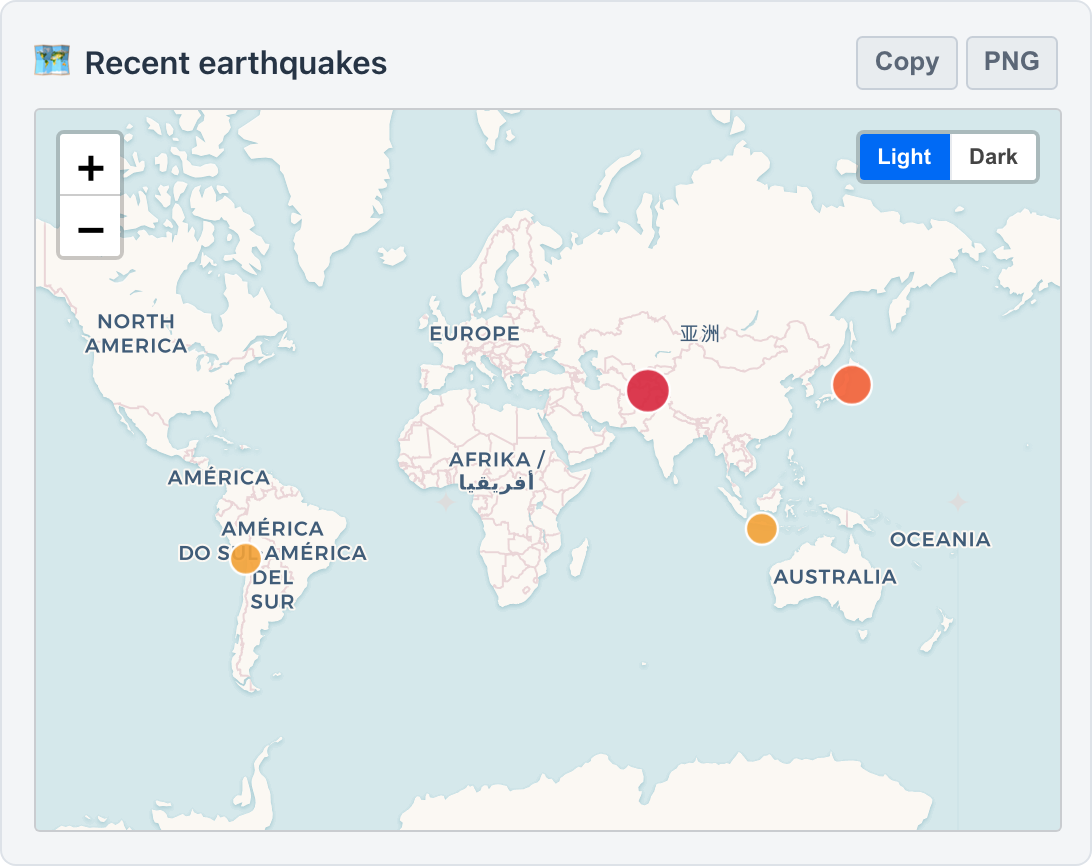
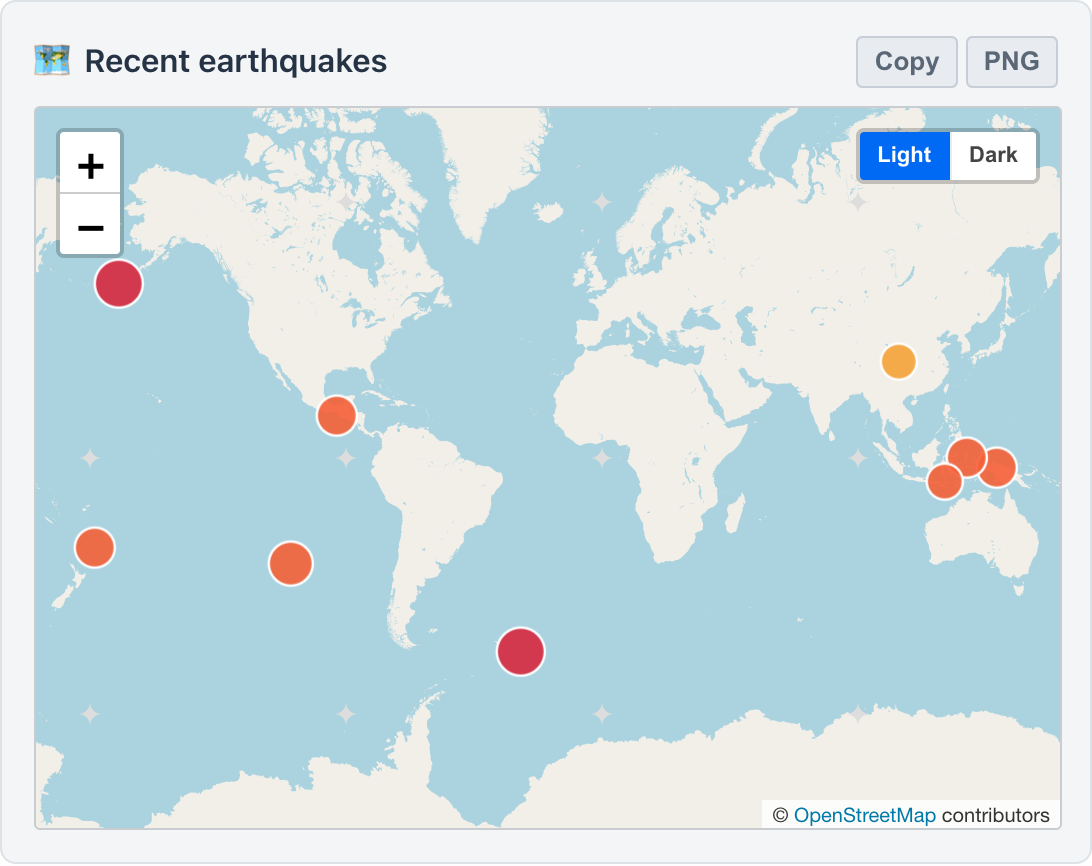
fix(chat): swap carto for keyless osm tiles, restore disabled selector placeholders

diff --git a/src/main/frontend/playground/chat-markdown-enhance.js b/src/main/frontend/playground/chat-markdown-enhance.js
@@ -934,13 +934,16 @@ function weightColor(w) {
     return w >= 6 ? '#d7263d' : w >= 5.5 ? '#f46036' : w >= 5 ? '#f4a236' : '#f4d03f';
 }
 
-const MAP_BASEMAPS = {
-    light: 'https://{s}.basemaps.cartocdn.com/rastertiles/voyager/{z}/{x}/{y}{r}.png',
-    dark: 'https://{s}.basemaps.cartocdn.com/dark_all/{z}/{x}/{y}{r}.png',
-};
+const MAP_TILE_URL = 'https://tile.openstreetmap.org/{z}/{x}/{y}.png';
+const MAP_ATTRIBUTION = '&copy; <a href="https://www.openstreetmap.org/copyright">OpenStreetMap</a> contributors';
+const MAP_DARK_FILTER = 'invert(1) hue-rotate(180deg) brightness(0.86) contrast(0.85) saturate(0.2)';
 
-function basemapLayer(style) {
-    return L.tileLayer(MAP_BASEMAPS[style], { maxZoom: 8, subdomains: 'abcd', crossOrigin: true });
+function basemapLayer() {
+    return L.tileLayer(MAP_TILE_URL, { maxZoom: 19, detectRetina: true, attribution: MAP_ATTRIBUTION, crossOrigin: true });
+}
+
+function applyBasemapStyle(map, box) {
+    map.getPane('tilePane').style.filter = box.dataset.style === 'dark' ? MAP_DARK_FILTER : 'none';
 }
 
 function exportLeafletMap(map, box) {
@@ -948,15 +951,18 @@ function exportLeafletMap(map, box) {
     const out = document.createElement('canvas');
     out.width = size.x;
     out.height = size.y;
+    const dark = box.dataset.style === 'dark';
     const ctx = out.getContext('2d');
-    ctx.fillStyle = box.dataset.style === 'dark' ? '#0b1322' : '#eaeef2';
+    ctx.fillStyle = dark ? '#0b1322' : '#eaeef2';
     ctx.fillRect(0, 0, size.x, size.y);
     const base = box.getBoundingClientRect();
+    ctx.filter = dark ? MAP_DARK_FILTER : 'none';
     box.querySelectorAll('img.leaflet-tile').forEach((img) => {
         if (!img.complete || !img.naturalWidth) return;
         const r = img.getBoundingClientRect();
         ctx.drawImage(img, r.left - base.left, r.top - base.top, r.width, r.height);
     });
+    ctx.filter = 'none';
     box.querySelectorAll('canvas').forEach((cv) => {
         if (cv === out || !cv.width || !cv.height) return;
         const r = cv.getBoundingClientRect();
@@ -977,9 +983,11 @@ registerActionCard('pointmap', (data) => {
     card.appendChild(box);
     try {
         const map = L.map(box, {
-            worldCopyJump: true, attributionControl: false, scrollWheelZoom: false, preferCanvas: true,
+            worldCopyJump: true, scrollWheelZoom: false, preferCanvas: true,
         });
-        let tiles = basemapLayer(style).addTo(map);
+        map.attributionControl.setPrefix('');
+        basemapLayer().addTo(map);
+        applyBasemapStyle(map, box);
         const latlngs = [];
         points.forEach((p) => {
             const w = typeof p.weight === 'number' ? p.weight : (typeof p.mag === 'number' ? p.mag : null);
@@ -1005,8 +1013,7 @@ registerActionCard('pointmap', (data) => {
                     if (s === style) return;
                     style = s;
                     box.dataset.style = s;
-                    map.removeLayer(tiles);
-                    tiles = basemapLayer(s).addTo(map);
+                    applyBasemapStyle(map, box);
                     div.querySelectorAll('button').forEach((x) => x.classList.toggle('active', x.textContent.toLowerCase() === s));
                 });
             });
@@ -1103,9 +1110,11 @@ registerActionCard('geoheat', (data) => {
     card.appendChild(box);
     try {
         const map = L.map(box, {
-            worldCopyJump: true, attributionControl: false, scrollWheelZoom: false, preferCanvas: true,
+            worldCopyJump: true, scrollWheelZoom: false, preferCanvas: true,
         });
-        let tiles = basemapLayer(style).addTo(map);
+        map.attributionControl.setPrefix('');
+        basemapLayer().addTo(map);
+        applyBasemapStyle(map, box);
         const heatCanvas = document.createElement('canvas');
         heatCanvas.className = 'saip-heat-layer';
         box.appendChild(heatCanvas);
@@ -1128,8 +1137,7 @@ registerActionCard('geoheat', (data) => {
                     if (s === style) return;
                     style = s;
                     box.dataset.style = s;
-                    map.removeLayer(tiles);
-                    tiles = basemapLayer(s).addTo(map);
+                    applyBasemapStyle(map, box);
                     div.querySelectorAll('button').forEach((x) => x.classList.toggle('active', x.textContent.toLowerCase() === s));
                 });
             });

diff --git a/src/main/frontend/playground/disabled-combo.css b/src/main/frontend/playground/disabled-combo.css
@@ -6,7 +6,14 @@ vaadin-multi-select-combo-box[disabled] > input {
     -webkit-text-fill-color: var(--lumo-secondary-text-color);
 }
 
-vaadin-multi-select-combo-box[disabled] > input::placeholder {
+vaadin-multi-select-combo-box[disabled]:not([has-value]) > input,
+vaadin-combo-box[disabled]:not([has-value]) > input {
+    flex: 1 0 4rem;
+    opacity: 1;
+}
+
+vaadin-multi-select-combo-box[disabled] > input::placeholder,
+vaadin-combo-box[disabled] > input::placeholder {
     color: var(--lumo-tertiary-text-color);
     -webkit-text-fill-color: var(--lumo-tertiary-text-color);
     opacity: 0.6;

diff --git a/src/main/frontend/playground/input-placeholder.css b/src/main/frontend/playground/input-placeholder.css
@@ -1,5 +1,8 @@
-::slotted(input)::placeholder,
-::slotted(textarea)::placeholder {
+vaadin-text-field > input::placeholder,
+vaadin-text-area > textarea::placeholder,
+vaadin-password-field > input::placeholder,
+vaadin-combo-box > input::placeholder,
+vaadin-multi-select-combo-box > input::placeholder {
     color: var(--lumo-tertiary-text-color);
     -webkit-text-fill-color: var(--lumo-tertiary-text-color);
     opacity: 0.6;

diff --git a/src/main/frontend/playground/chat-styles.css b/src/main/frontend/playground/chat-styles.css
@@ -513,6 +513,11 @@ vaadin-details-summary::part(content) {
     background: #0b1322;
 }
 
+.saip-action-pointmap .leaflet-control-attribution {
+    font-size: 10px;
+    background: rgba(255, 255, 255, 0.78);
+}
+
 .saip-heat-layer {
     position: absolute;
     top: 0;

diff --git a/src/test/java/org/springaicommunity/playground/service/chat/ChatRagToolComboScenarioTest.java b/src/test/java/org/springaicommunity/playground/service/chat/ChatRagToolComboScenarioTest.java
@@ -42,6 +42,7 @@ import org.springframework.ai.chat.prompt.ChatOptions;
 import org.springframework.ai.chat.prompt.DefaultChatOptions;
 import org.springframework.ai.chat.prompt.Prompt;
 import org.springframework.ai.document.Document;
+import org.springframework.ai.embedding.EmbeddingModel;
 import org.springframework.ai.model.tool.ToolCallingChatOptions;
 import org.springframework.ai.tool.ToolCallback;
 import org.springframework.ai.tool.definition.ToolDefinition;
@@ -117,6 +118,9 @@ class ChatRagToolComboScenarioTest {
 
     @MockitoBean
     VectorStore vectorStore;
+
+    @MockitoBean
+    EmbeddingModel embeddingModel;
 
     @MockitoSpyBean
     RagPipelineExecutor ragPipelineExecutor;
@@ -471,14 +475,19 @@ class ChatRagToolComboScenarioTest {
 
     @Test
     void dynamicToolsCoexistWithPipelineRetrieval() {
+        // The dedicated tool index owns a separate vector store; mock its model as well.
+        when(this.embeddingModel.dimensions()).thenReturn(3);
+        when(this.embeddingModel.embed(any(Document.class))).thenReturn(new float[] {1.0f, 0.0f, 0.0f});
         VectorStoreDocumentInfo document = registerDocument("curated-rt02", false);
         RagPipeline pipeline = retrievalOnlyPipeline("rt02", List.of(document.docInfoId()));
-        ToolCallback callback = probeCallback("rt02Probe");
+        // A fresh name forces indexing even when a previous run persisted the tool index.
+        ToolCallback callback = probeCallback("rt02Probe_" + UUID.randomUUID().toString().replace("-", ""));
         ChatHistory history = newHistory()
                 .withToolPreferences(ChatToolPreferences.defaults().withDynamicTools(true));
 
         send(history, CONTENT_QUERY, pipeline.id(), List.of(callback), null);
 
+        verify(this.embeddingModel, atLeastOnce()).embed(any(Document.class));
         assertThat(userTextSentToModel()).as("RT-02 retrieval survives dynamic mode").contains(PIPELINE_CHUNK_MARK);
         assertThat(toolNamesSentToModel())
                 .as("RT-02 the turn really ran in dynamic mode: the pool is hidden behind the search tool")

diff --git a/src/main/java/org/springaicommunity/playground/webui/SpringAiPlaygroundAppLayout.java b/src/main/java/org/springaicommunity/playground/webui/SpringAiPlaygroundAppLayout.java
@@ -45,13 +45,7 @@ import java.util.Map;
 
 @PageTitle("Spring AI Playground")
 @CssImport("./playground/sidebar.css")
-@CssImport(value = "./playground/input-placeholder.css", themeFor = "vaadin-text-field")
-@CssImport(value = "./playground/input-placeholder.css", themeFor = "vaadin-text-area")
-@CssImport(value = "./playground/input-placeholder.css", themeFor = "vaadin-password-field")
-@CssImport(value = "./playground/input-placeholder.css", themeFor = "vaadin-combo-box")
-@CssImport(value = "./playground/input-placeholder.css", themeFor = "vaadin-multi-select-combo-box")
-@CssImport(value = "./playground/input-placeholder.css", themeFor = "vaadin-select")
-@CssImport(value = "./playground/disabled-placeholder.css", themeFor = "vaadin-multi-select-combo-box")
+@CssImport("./playground/input-placeholder.css")
 @CssImport("./playground/disabled-combo.css")
 // The parent layout must allow access at least as broadly as its views, or navigation is denied.
 @AnonymousAllowed

diff --git a/docs/tutorials/14-analyze-an-image.md b/docs/tutorials/14-analyze-an-image.md
@@ -27,7 +27,7 @@ Pick a model that can actually see. On Ollama that means a standard GGUF vision 
 
 4. Photos carry more than pixels. The EXIF captured at attach time (capture date, camera, GPS) lands in a `.json` sidecar next to each stored image, and the filesystem tools can read it. Apply the **Image analyst** preset from the **Prompt Library** (**Apply to chat** then **Apply & New Chat**, and confirm the **Apply preset tools** dialog - it exposes `listDir`, `readTextFile`, `renderTable`, and `plotPointsOnMap` alongside `describeImage`), attach a few geotagged photos, and ask: `Where and when did I take these three photos? Read each photo's EXIF sidecar, show a table with file name, capture time, camera, and GPS coordinates, then plot the three locations on a map.`
 
-![The agent's answer to the EXIF question - a Photo Location Data table with one row per photo and a map card with three markers across Korea](../assets/images/tutorials/tutorial-14-exif-map.png)
+![The agent's answer to the EXIF question - a photo metadata table with one row per photo and a map card with three markers across Korea](../assets/images/tutorials/tutorial-14-exif-map.png)
 *The agent lists `images/`, reads each `<hash>.json` sidecar with `readTextFile`, tabulates file, capture time, camera, and GPS per photo with `renderTable`, then drops one marker per photo with `plotPointsOnMap` - three shots, three markers. The answer ends in a table and a map you can read at a glance, not a paragraph of coordinates.*
 
 5. Later in the conversation - even after the original turn has scrolled out of the model's context window - ask about the image again: `What was in that image I sent earlier?`. If the **`describeImage`** tool is exposed to the chat, the model calls it, the chat re-attaches the stored image, and the model answers with the pixels in front of it again.

diff --git a/docs/features/agentic-chat/prompt-presets.md b/docs/features/agentic-chat/prompt-presets.md
@@ -615,7 +615,7 @@ Use only enabled tools and never fake their output.</pre>
 
 **What happens** - the agent calls `getRecentEarthquakes`, states the magnitudes and locations briefly, then calls `plotPointsOnMap` to drop every quake onto one multi-point Leaflet map (with a Light / Dark toggle and Copy / PNG export). Its reasoning and tool calls run in collapsible **THINK** / **MCP TOOLS** panels (folded here; click any in the app to open).
 
-![The Data visualizer preset in action - closing magnitude bullets for Japan (5.8) and Chile (5.0), above a rendered map card titled Earthquake Locations with three round markers near central Asia, Japan, and South America, zoom controls, a Light / Dark toggle, and Copy and PNG buttons; the tool selector at the bottom shows getCryptoPrice and evalExpression next to an overflow chip for 14 more](../../assets/images/chat/preset-data-visualizer-result.png){ width="980" }
+![The Data visualizer preset in action - closing summary bullets naming the strongest event and the busiest region, above a rendered map card titled Significant Earthquakes (M5+) - Last 72 Hours with one weight-sized marker per quake worldwide, zoom controls, a Light / Dark toggle, and Copy and PNG buttons](../../assets/images/chat/preset-data-visualizer-result.png){ width="980" }
 
 </div>
 </div>
